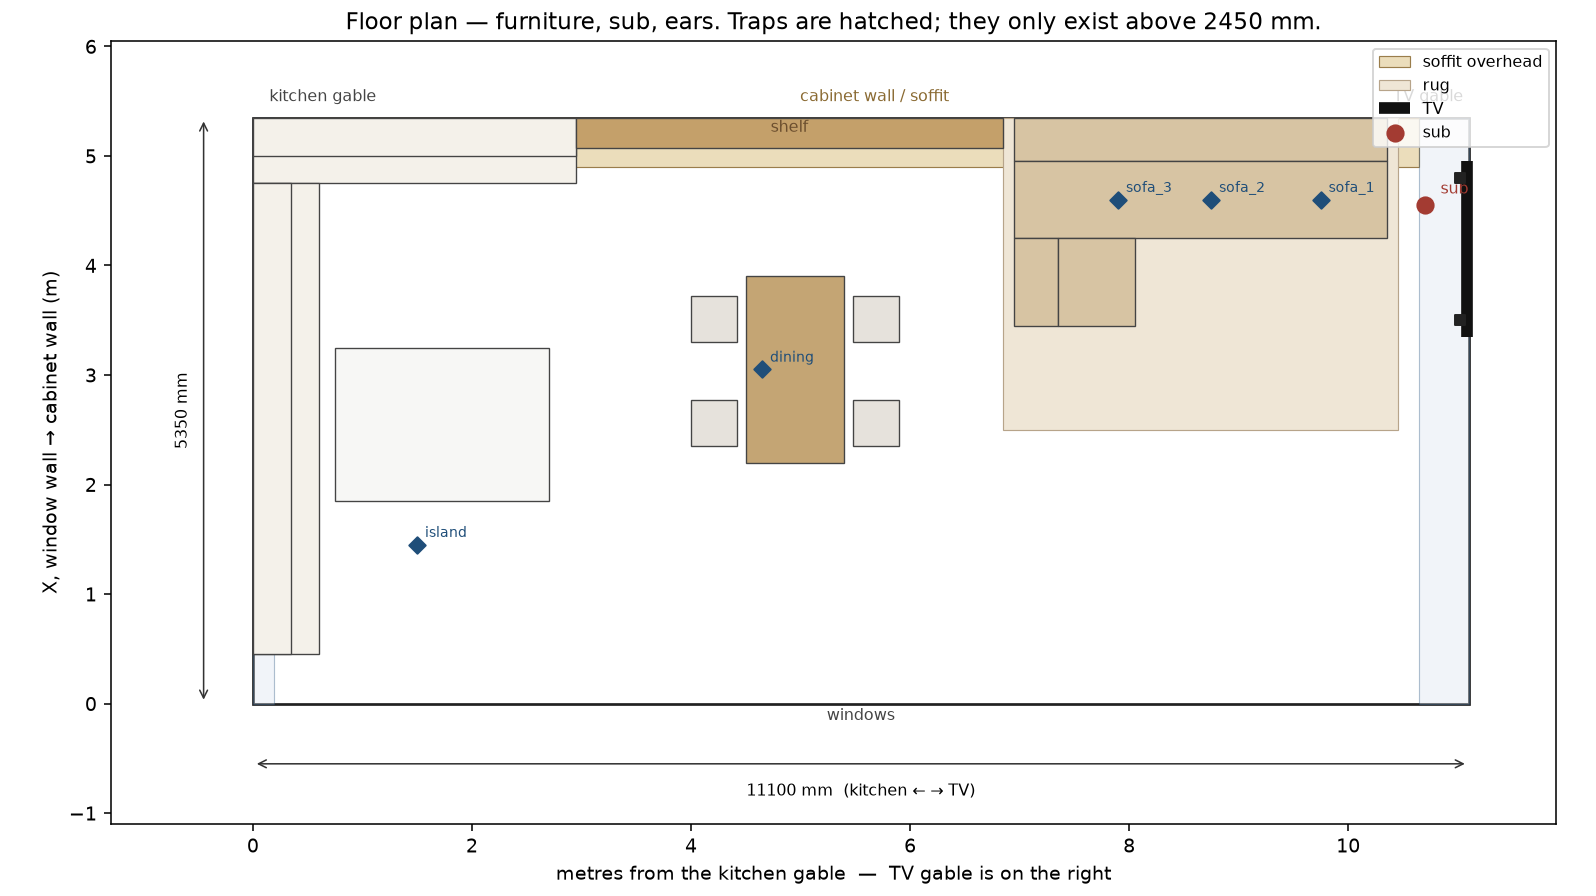
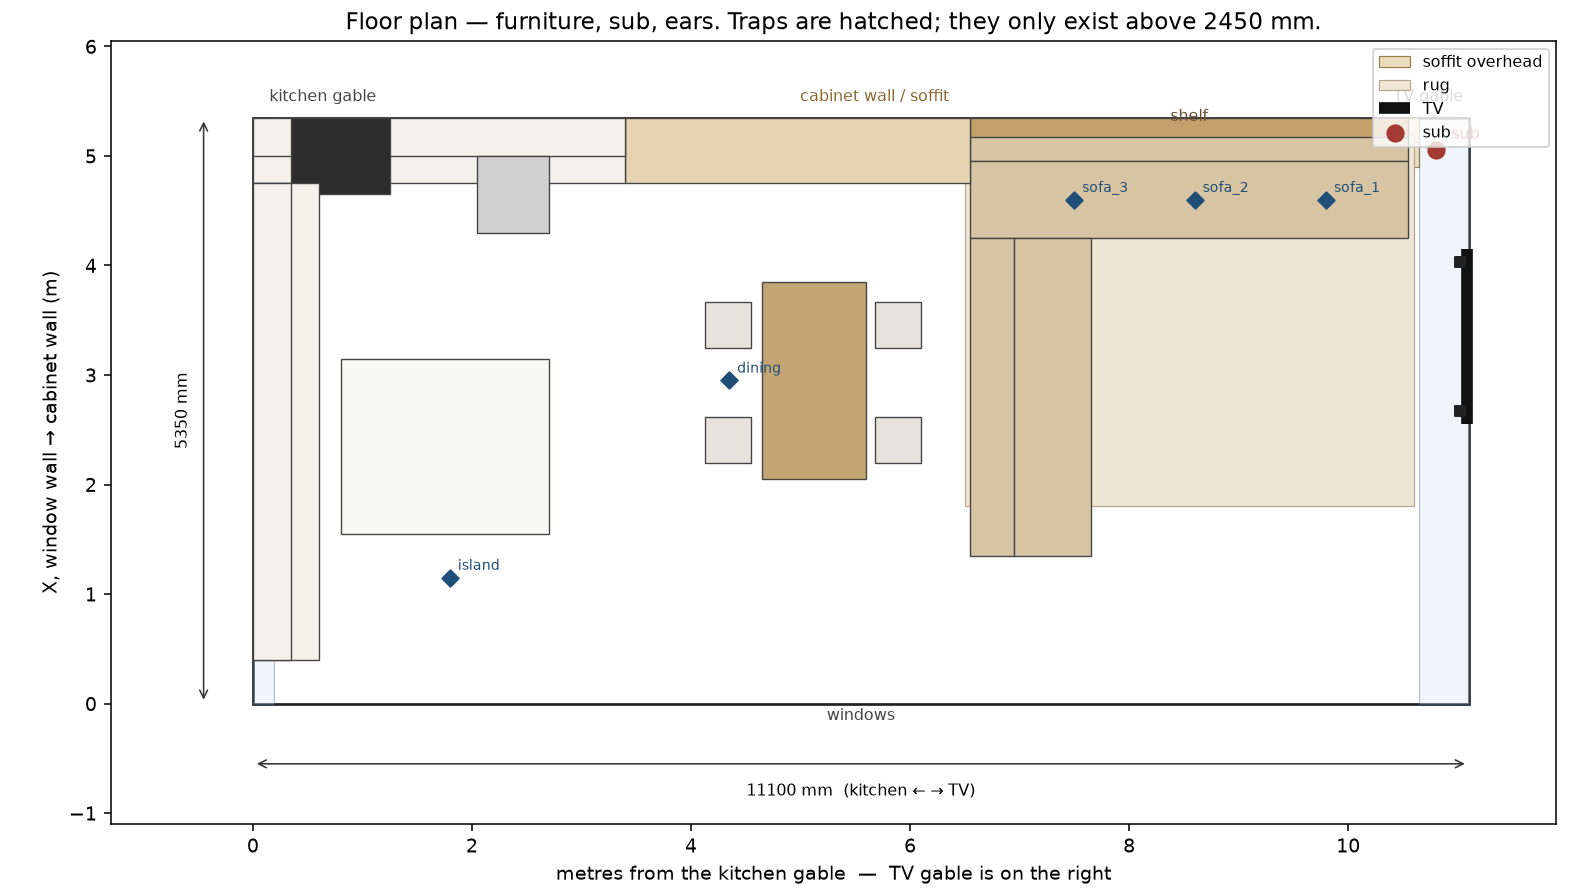
Publish PR preview pr-69

diff --git a/pr-preview/pr-69/acoustics/LAYOUT.md b/pr-preview/pr-69/acoustics/LAYOUT.md
@@ -1,8 +1,8 @@
 # Obývák layout for the wave model
 
-Review sheet before any acoustic solve. Kitchen gable is on the left of the plan and the long section, TV gable on the right, matching Petr's elevation.
+Review sheet. No acoustic solve on this furniture. Kitchen gable is on the left of the plan and the long view, TV gable on the right, as in Petr's elevation. The purple circle is the subwoofer: on the floor, in the cabinet-wall / TV-gable corner, at the TV end of the sofa.
 
-The shell (slopes, soffit, traps, windows) comes from `ObyvakParams`. The furniture is placed to match that elevation. Where the written brief and the elevation disagree, the elevation wins and the brief number is listed under Open points.
+The shell is `ObyvakParams`. The sofa size is Petr's 4.0 × 4.0 m, which overrides the scale of the sketch.
 
 ## Shell
 
@@ -16,52 +16,54 @@ The shell (slopes, soffit, traps, windows) comes from `ObyvakParams`. The furnit
 | Soffit underside | 2470 |
 | Living trap, from Y = 0, above Z = 2450 | 450 |
 | Kitchen trap, from Y = 11100, above Z = 2450 | 190 |
-| Windows on the window wall, sill at the floor, head | 2500 |
+| Windows on the window wall, head | 2500 |
 
-Pitch is across the width, not along the room. A cut along the length at one X is a level ceiling. The long section draws that level at X = 2200 mm (near the false ridge, about 5020 mm high) and, separately, the soffit underside at 2470 mm on the cabinet wall.
+The pitch runs across the width. Along the cabinet wall the ceiling of the room is the soffit underside, 2470 mm.
 
-Traps replace the air above 2450 mm at each end. Below that the gable wall is at Y = 0 and Y = 11100.
+## Furniture
 
-## Furniture, sources, ears
-
-Along the cabinet wall, from the kitchen gable toward the TV:
+Order on the cabinet wall, from the TV gable toward the kitchen.
 
 | Piece | X (mm) | Y (mm) | Z (mm) |
 | --- | --- | --- | --- |
-| Kitchen on the gable, base | 450–4750 | 10500–11100 | 0–900 |
-| Kitchen on the gable, uppers | 450–4750 | 10750–11100 | 1450–2200 |
-| Kitchen on the cabinet wall, base | 4750–5350 | 8150–11100 | 0–900 |
-| Kitchen on the cabinet wall, uppers | 5000–5350 | 8150–11100 | 1450–2200 |
-| Island | 1850–3250 | 8400–10350 | 0–900 |
-| Book wall, 280 mm deep | 5070–5350 | 4250–8150 | 1050–2400 |
-| Dining table top | 2200–3900 | 5700–6600 | 740–790 |
-| Sofa along the wall, back / seat | 4250–5350 | 750–4150 | seat 450, back 850 |
-| Sofa return, toward the table | 3450–5350 | 3050–4150 | seat 450, back 850 |
-| Rug | 2500–5350 | 650–4250 | floor |
-| TV screen, on the TV gable, no cabinet | 3350–4950 | on the wall | 700–1600 |
-| Subwoofer | 4550 | 400 | 250 |
-| TV speakers | 3500 and 4800 | 80 | 1150 |
-| Talker | 3050 | 5350 | 1200 |
-| Ears, three sofa seats | 4600 | 1350, 2350, 3200 | 1150 |
-| Ear, dining | 3050 | 6450 | 1150 |
-| Ear, island | 1450 | 9600 | 1150 |
+| Subwoofer, corner | 5050 | 300 | 250 |
+| Sofa long run, back and seat, 4000 mm | 4250–5350 | 550–4550 | seat 450, back 850 |
+| Sofa chaise, dining end, toward the windows | 1350–5350 | 3450–4550 | seat 450, back 850 |
+| Lamella wall, behind that run | 5170–5350 | 550–4550 | 950–2400 |
+| Tall wood units, behind the dining table | 4750–5350 | 4550–7700 | 0–2200 |
+| Kitchen base, cabinet wall | 4750–5350 | 7700–11100 | 0–900 |
+| Kitchen uppers, cabinet wall | 5000–5350 | 7700–11100 | 1450–2200 |
+| Fridge | 4650–5350 | 9850–10750 | 0–2100 |
+| Hood, in front of the uppers | 4300–5000 | 8400–9050 | 1700–2400 |
+| Kitchen base, kitchen gable | 400–4750 | 10500–11100 | 0–900 |
+| Kitchen uppers, kitchen gable | 400–4750 | 10750–11100 | 1450–2200 |
+| Island | 1550–3150 | 8400–10300 | 0–900 |
+| Dining table | 2050–3850 | 5500–6450 | 740–790 |
+| Rug, under the sofa | 1800–5200 | 500–4600 | floor |
+| TV, on the TV gable, no bench, no cabinet | 2550–4150 | on the wall | 800–1650 |
 
-The sub is 400 mm off the TV gable, at the sofa's TV end, under the screen edge nearer the sofa (X = 4550, screen runs 3350–4950). It is not in the cabinet-wall corner.
+The sofa bounding box is 4000 × 4000 mm. The long run ends at the TV side (Y = 550 mm, leaving the corner for the sub). The chaise is the dining end and reaches toward the windows.
 
-Chairs are 420 × 420 × 780 mm at the four sides of the table.
+The lamella wall is the same 4000 mm run as the sofa, starting just above the 850 mm back and stopping 70 mm short of the soffit. Drawn depth is 180 mm so the books show. Acoustically it is still wooden lamellas 20 mm off the wall, no wool, about half the shelves filled with books.
 
-## Open points
+The tall wood units between the kitchen and that shelf are hard cabinets. The low bench under the TV in the rendering is not in the model.
 
-1. The brief said an L-sofa of 4.0 × 4.0 m, arms about 1.1 m deep. The elevation shows a shorter run and a shallower return. The model uses 3400 mm along the wall, 1100 mm seat depth, and a 1900 mm return toward the table. A 4000 mm return would cross the table.
-2. The brief put a 3.9 × 1.5 m shelf on the back wall above the sofa, starting 1300 mm up. The elevation puts the book wall between the kitchen and the sofa. The model follows the elevation: 3900 mm long, from 1050 mm to 2400 mm (the soffit underside is 2470 mm, so 2800 mm is not available on this wall), 280 mm deep. The 20 mm lamella gap and the lack of wool behind it stay as the acoustic description of that face, for when the solve is allowed.
-3. The brief put the sub 300 mm from both the TV wall and the cabinet wall. The note on the elevation puts it at the sofa's TV end, under the left edge of the TV. This model uses the sofa-side edge of the screen. If the window-side edge was meant, the sub moves to X = 3350 mm, Y unchanged.
-4. TV size is assumed: 1600 mm wide, bottom at 700 mm, top at 1600 mm. The elevation shows a screen and no cabinet.
+Ears: sofa at X = 4600, Y = 1300 / 2500 / 3600, Z = 1150. Dining at (2950, 6750, 1150). Island at (1150, 9300, 1150). Talker at (2950, 5150, 1200). TV speakers at the screen edges, Y = 80, Z = 1150.
+
+## Residual differences
+
+- Hood, fridge, and the tall-unit run are sized from the elevation, not from a dimensioned drawing. Hood 700 × 650 mm. Fridge 900 × 700 × 2100 mm. Tall units 3150 mm along the wall.
+- TV width and height are assumed (1600 mm wide, 800–1650 mm). The rendering shows a screen on that gable and nothing under it.
+- No plants, no downlights, no rug pattern, no people except a 1750 mm scale figure in the perspective.
+- The lamella gap is 20 mm in the acoustic description. The solid in the view is 180 mm deep so the shelf is visible above the sofa back.
+- Ceiling in the perspective is the real slopes and the soffit. The rendering also shows the roof structure and lights, which are not furniture.
 
 ## Sheets
 
-- `layout-plan.png` — plan, kitchen left, TV right
-- `layout-section-xz.png` — slopes, false ridge, soffit step
-- `layout-section-long.png` — same handedness as the elevation
-- `layout-mesh-3d.png` — the surfaces the wave model will use
+- `layout-plan.png`
+- `layout-section-xz.png`
+- `layout-section-long.png`
+- `layout-compare.png` — view toward the cabinet wall, kitchen left, TV right
+- `layout-mesh-3d.png`
 
 No frequency sweep has been run on this layout.
